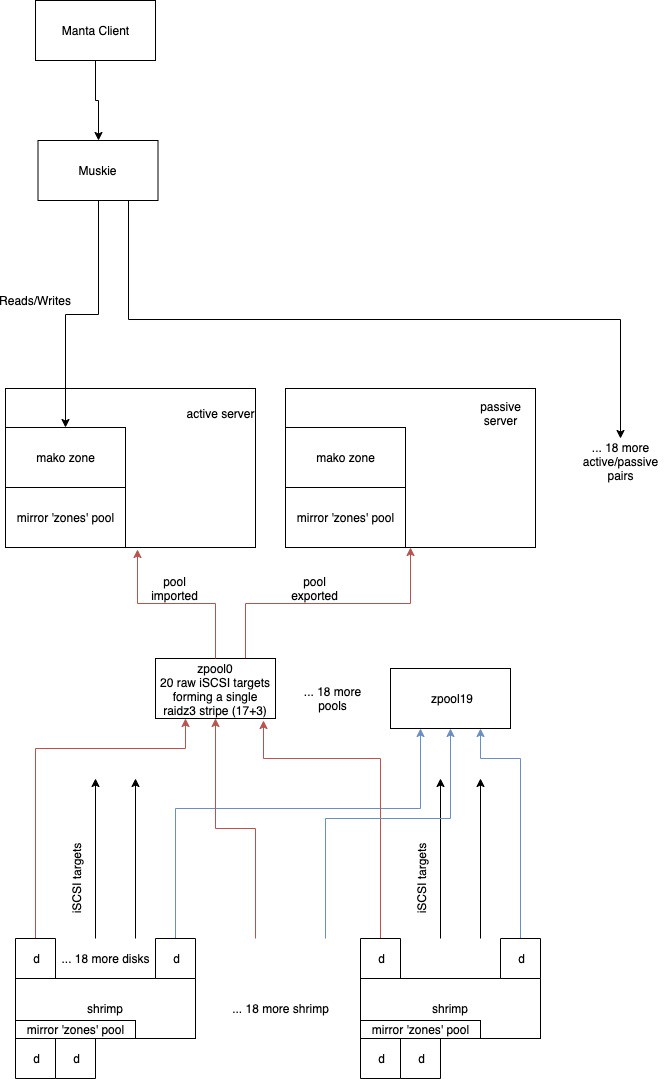
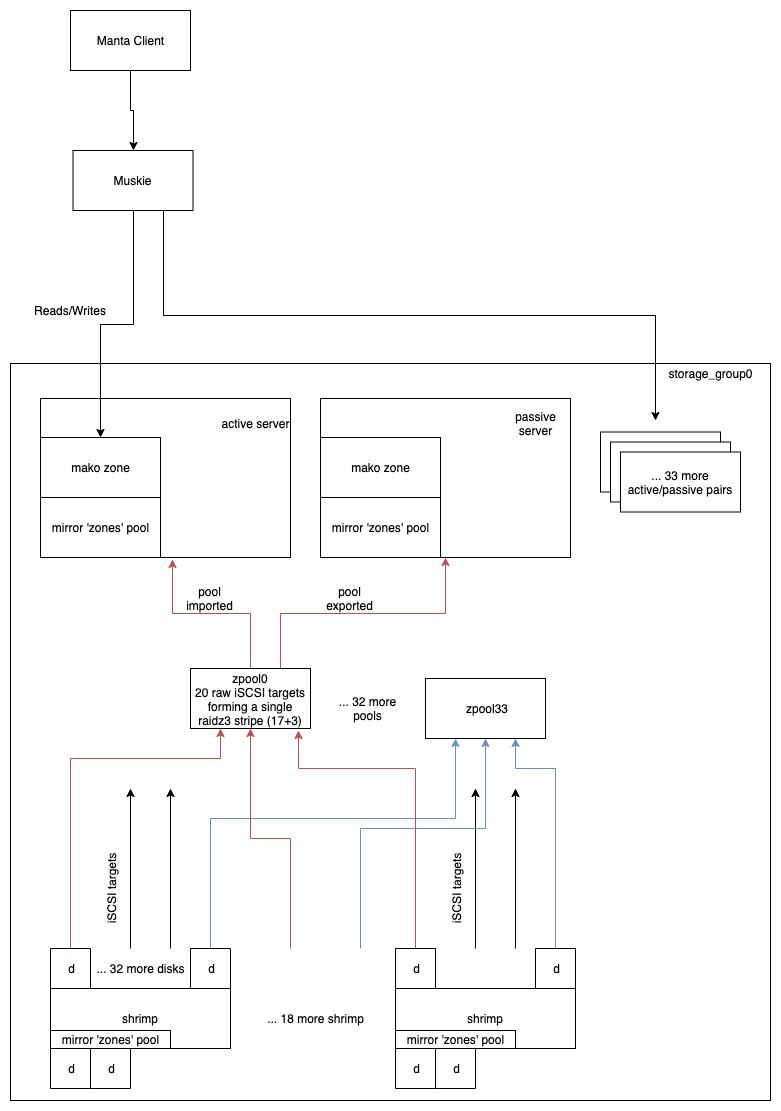
update RFD 174

diff --git a/rfd/0174/README.md b/rfd/0174/README.md
@@ -91,7 +91,7 @@ to pay for that.
 Using a distributed storage solution does have drawbacks. The configuration
 is more complex, has more failure modes, and is harder to troubleshoot when
 something goes wrong. These issues are discussed in this RFD.
- 
+
 ## Hardware and Network Configuration
 
 For the sake of discussion, assume we're going to deploy a 17+3 configuration.
@@ -99,104 +99,108 @@ That is, one raidz3 with 20 disks. We could consider other configurations
 with similar parity disk overhead.
 
 We will have one machine which assumes the active role (it has the manta data
-zpool imported and is providing the mako `storage` zone service), and one
+zpool imported and is providing the `mako` storage zone service), and one
 machine in the passive role (it has iscsi configured to see all 20 disks, but
-does not have the zpool imported and the mako `storage` zone is not booted
+does not have the zpool imported and the `mako` storage zone is not booted
 until the active machine fails). The active and passive machines will only
-have two local disks for their local mirrored `zones` zpool. We need to
+have 2 local disks for their local mirrored "zones" zpool. We need to
 determine if these machines are a new HW configuration or repurposed from one
 of our existing HW configurations.
 
-It is important to note that the active/passive storage zpool cannot be
-configured with a slog, since there is no good solution for preventing data
-loss from the slog in the event of a failover.
+It is important to note that the active/passive `mako` storage zpool might not
+be configured with a slog. We need to test if running a mirrored slog over
+iscsi provides enough of a performance win. If so, we can partition the SSDs
+and have multiple `makos` sharing the slogs on the remote server, since we don't
+really need a full dedicated device. In this case, we can repurpose the slogs
+from our existing shrimps. The rest of the RFD assumes no slog, so some of
+the numbers will change if we determine a slog over iscsi is useful.
 
 We will have 20 machines acting as iscsi targets. These 20 machines provide
-the disk storage for the active/passive machines. We can repurpose our
-existing shrimp HW for this role.
+the disk storage for the active/passive `mako` machines. We can repurpose our
+existing shrimp HW for this role. All 20 iscsi target machines should have
+disks of the same size.
 
 For proper durability, each iscsi target can only present one disk (physical
-or virtual) to each of the active/passive servers. Thus, to make efficient
-use of the target machines we need to define a storage group. This is a
-set of machines with multiple active/passive servers making use of each target.
-For a 20-wide configuration, each target machine will expose 20
-physical/virtual disks, so we would then have 20 active and 20
-passive machines sharing the 20 iscsi target servers in the storage group. If
-a different raidz3 width is chosen, then that impacts the total number of
-servers in the storage group.
+or virtual) to each of the active/passive servers. Because the repurposed
+shrimps can have 34 usable disks (2 are set aside for the system's "zones"
+pool), we can support up to 34 active/passive `makos`.
 
-All 20 iscsi target machines should have disks of the same size.
+To summarize, the raidz3 width used by the `makos` defines how many iscsi
+target machines we need, and the number of available data disks in the iscsi
+target machines determines how many active/passive `mako` servers we can
+provision to use the iscsi target machines.
+
+We'll call this collection of machines a storage group. This is the full
+set of machines with multiple active/passive `mako` servers making use of
+the disks on each iscsi target machine.
+
+Within the storage group, we'll want to isolate all of the local network
+traffic (iscsi, heartbeats, etc.) onto at least its own vlan, and more likely
+onto a dedicated switch. It is possible that running 34 `makos` and all of
+the associated network traffic will be too much network load within the
+storage group. In that case, we'll have to support fewer `makos` in the
+group and we could remove some of the data disks from the iscsi target
+machines to re-use them elsewhere.
 
 An additional point of comparison with our current manta storage tier is that
 the basic building block is 2 shrimps in 2 different AZs (because we store 2
 copies of an object). In this new approach, the basic building block is the
-storage group with 20 iscsi targets (or whatever raidz3 width is chosen
-instead), 20 active and 20 passive servers. All 60 of these machines should be
-close together on the same network. The existing shrimps can be repurposed for
-this new iscsi target role, but the active/passive servers only need two
-physical disks, so we might want a different HW unit for that role.
+storage group with 20 iscsi target machines, up to 34 active and 34 passive
+servers.  All 88 of these machines will be close together on the same network.
 
 There are two alternatives for how the iscsi target presents disks; either
-as raw disks, or as zvols. Both need to be tested and investigated before
-a final decision is made.
+as raw disks, or as zvols. Both are described here, but there are known
+issues and concerns with the zvol case, so we won't be using that option.
 
-Here is an [overview diagram](./storage_rfd.jpg) of these various components
-for the raw disk case. The zvol case is similar, except is presenting virtual
-disks vs. physical disks.
+Here is an [overview diagram](./storage_rfd.jpg) of these various components.
 
 ### Raw Disks
 
-If each iscsi target machine only presented one raw disk, then the rest of
-that box is wasted, so as described above, the target machine would provide 20
-disks to 20 different active servers and 20 passive servers for a total of
-60 machines in the storage group.
+Each iscsi target machine provides all of its data disks (up to 34 when using
+the existing shrimps) to the appropriate number of active/passive `mako`
+servers. There are 2 disks in each iscsi target machine that are reserved
+for a mirrored "zones" zpool for use by that machine.
 
-If we want each iscsi target disk to map directly to a physical disk, then
-our current shrimps (repurposed as iscsi target boxes) have 36 disks, 34 of
-which could be used for iscsi target storage, leaving 2 which would be mirrored
-system disks (the 'zones' zpool). Having 34 disks is a bad number in a 20-wide
-configuration, so one option is to remove 14 disks and use them elsewhere.
+It seems likely that the "dense shrimp" model is not a good fit for an iscsi
+target in this proposed distributed storage world. The dense shrimp has so
+much local disk and it seems probable that 60 busy `makos` could saturate the
+storage group network.
 
 ### ZVOLS
 
-An alternative on the iscsi target machine is to use zvols instead of raw disks.
-In this case, instead of using two mirrored disks for the system's zpool, we
-would continue to make the single "zones" zpool. We would use a new
+[NOTE: this option is hypothetical and not being pursued]
+
+An alternative on the iscsi target machine would be to use zvols instead of raw
+disks. In this case, instead of using two mirrored disks for the system's zpool,
+we would continue to make the single "zones" zpool. We would use a new
 raidz1 (11+1) * 3 layout to minimize disk overhead. It is hard to compare the
 exact disk efficiency to the raw disk case since we have 36 disks as shared
-storage, but we also have the zpool overhead to consider.  We'll have to do
+storage, but we also have the zpool overhead to consider.  We would have to do
 more measurements to determine the actual efficiency on the iscsi target in
-this configuration. In this configuration the target would offer 20 zvols
-instead of 20 raw disks. Aside from potential performance questions, this
-configuration has another potential drawback. We don't want to provide zvols
-that are too large, since that has a direct impact on resilver times in the
-zpool that is built on top of these zvols.
+this configuration. In this configuration the target would offer the
+appropriate number of zvols to support all of the associated `makos`.
 
-To be clear in this case, there are now two different zpools at two different
-layers (aside from the mirrored system disk "zones" zpools on the storage
-servers). There is the 20 virtual disk zpool used by the active/passive
-storage servers, and there is the 36 physical disk zpool used by the
-iscsi target machines to host the local "zones" zpool which holds the 20
-zvols.
+As mentioned, there are a variety of issues and concerns with this
+configuration.
 
-Our current 36-disk shrimps have zpools ranging in size from 360TB to 240TB
-(depending on which size disks were used when the shrimp was installed).
-This results in usable zfs dataset space of 265TB to 221 TB (265TB seems low
-and needs investigation for improvement). If we assume normal system overhead
-is already accounted for in the current configuration, this results in zvol
-virtual disks of 13.25TB to 11TB, which is similar in size to currently
-shipping hard disks that might be exposed raw (i.e. 265/20).
+There are potential performance questions of running a zpool (on the `makos`)
+over another zpool on the iscsi target machine. In the past, serious write
+amplification has been observed.
 
-No matter what, it seems clear that the "dense shrimp" model is not a good
-fit for an iscsi target in this proposed distributed storage world. The
-dense shrimp has so much storage that the 20 zvols would be very large and
-incur very long resilver times after a failure.
+There have been hangs reported in this configuration.
+
+Another potential drawback is that we don't want to provide zvols that are too
+large, since that has a direct impact on resilver times in the zpool that is
+built on top of these zvols.
 
 ### Network
 
 We want to isolate all of the iscsi traffic to at least its own vlan, and
 perhaps even onto a dedicated switch. Using a dedicated switch will help
 reduce or eliminate network partitions, which simplifies failure analysis.
+
+We need to determine how well our NICs and network stack performs with all
+of the iscsi traffic.
 
 TBD anything else here?
 
@@ -262,28 +266,29 @@ We have described the configuration and behavior for SmartOS in the role
 of an HA storage server or iscsi target, but we also need to determine how this
 configuration is initially installed and setup. This process is TBD.
 
-## Mako `storage` Zone Manta Visibility
+## Mako Storage Zone Manta Visibility
 
-The active/passive servers will each have a a mako `storage` zone configured.
+The active/passive servers will each have a `mako` storage zone configured.
 These will be identical zone installations since either machine can provide the
-identical storage service to the rest of Manta. The mako `storage` zone will
+identical storage service to the rest of Manta. The `mako` storage zone will
 only be booted and running on the active server.
 
-There are a bunch of open questions on how the active/passive mako visibility
+There are a bunch of open questions on how the active/passive `mako` visibility
 will be exposed to the rest of Manta when we have a failover. We're targeting
 one minute for a passive to become the active. This includes the time for
-the heartbeater timeout, importing the zpool, booting the mako zone, etc.
+the heartbeater timeout, importing the zpool, booting the `mako` zone, etc.
 so we'd ideally like the network flip to be completed within around 30
 seconds, if possible.
 
-- If the active/passive mako zones share the same IP, when we have a flip,
+- If the active/passive `mako` zones share the same IP, when we have a flip,
   how quickly will this propagate through the routing tables? Is there anything
   we could actively do to make it faster? Is having the same IP all that is
-  necessary?
+  necessary? Is the gratuitous arp that gets emitted when the new `mako` zone
+  boots adequate?
 - Is there some way to configure DNS so that records have a short TTL and we
   quickly flip?
 - Is there some other approach, perhaps using cueball or other upstack
-  services which we can use to quickly flip the mako over when the passive
+  services which we can use to quickly flip the `mako` over when the passive
   machine becomes the active machine?
 
 ## HA and Failures
@@ -305,7 +310,7 @@ server takes advantage of the `mmp` capability in ZFS to attempt to become
 the active server.
 
 We need further testing before we have a final value, but we have a target
-of one minute for an active/passive flip before the mako storage service
+of one minute for an active/passive flip before the `mako` storage service
 instance is once again available.
 
 If the active server loses its network connection, it will no longer be able
@@ -378,9 +383,23 @@ This section needs more details, but here is a rough list.
 - iscsi target disk failure
 - storage group switch failure
 
+### Load Testing
+
+This section needs more details, but here is a rough list.
+
+- Need to estimate the expected read/write load.
+- How much network traffic on iscsi vlan/switch in a full 88 node config?
+- How well do our NICs and network stack handle the expected maximum iscsi
+  load from all 34 `makos`.
+- How well do the iscsi targets handle the load for at the disk level?
+- How well do the iscsi targets handle the load when all 34 active nodes are
+  doing heavy I/O?
+- Is the active node seeing unacceptable load because of the iscsi initiator?
+
 ### Performance Testing
 
-TBD but minimum raw disk vs. zvol configs
+TBD but related to load testing. Probably want to see how hard we can push
+1 `mako` (i.e. not the expected load, but what is the max?).
 
 ## Open Issues
 
